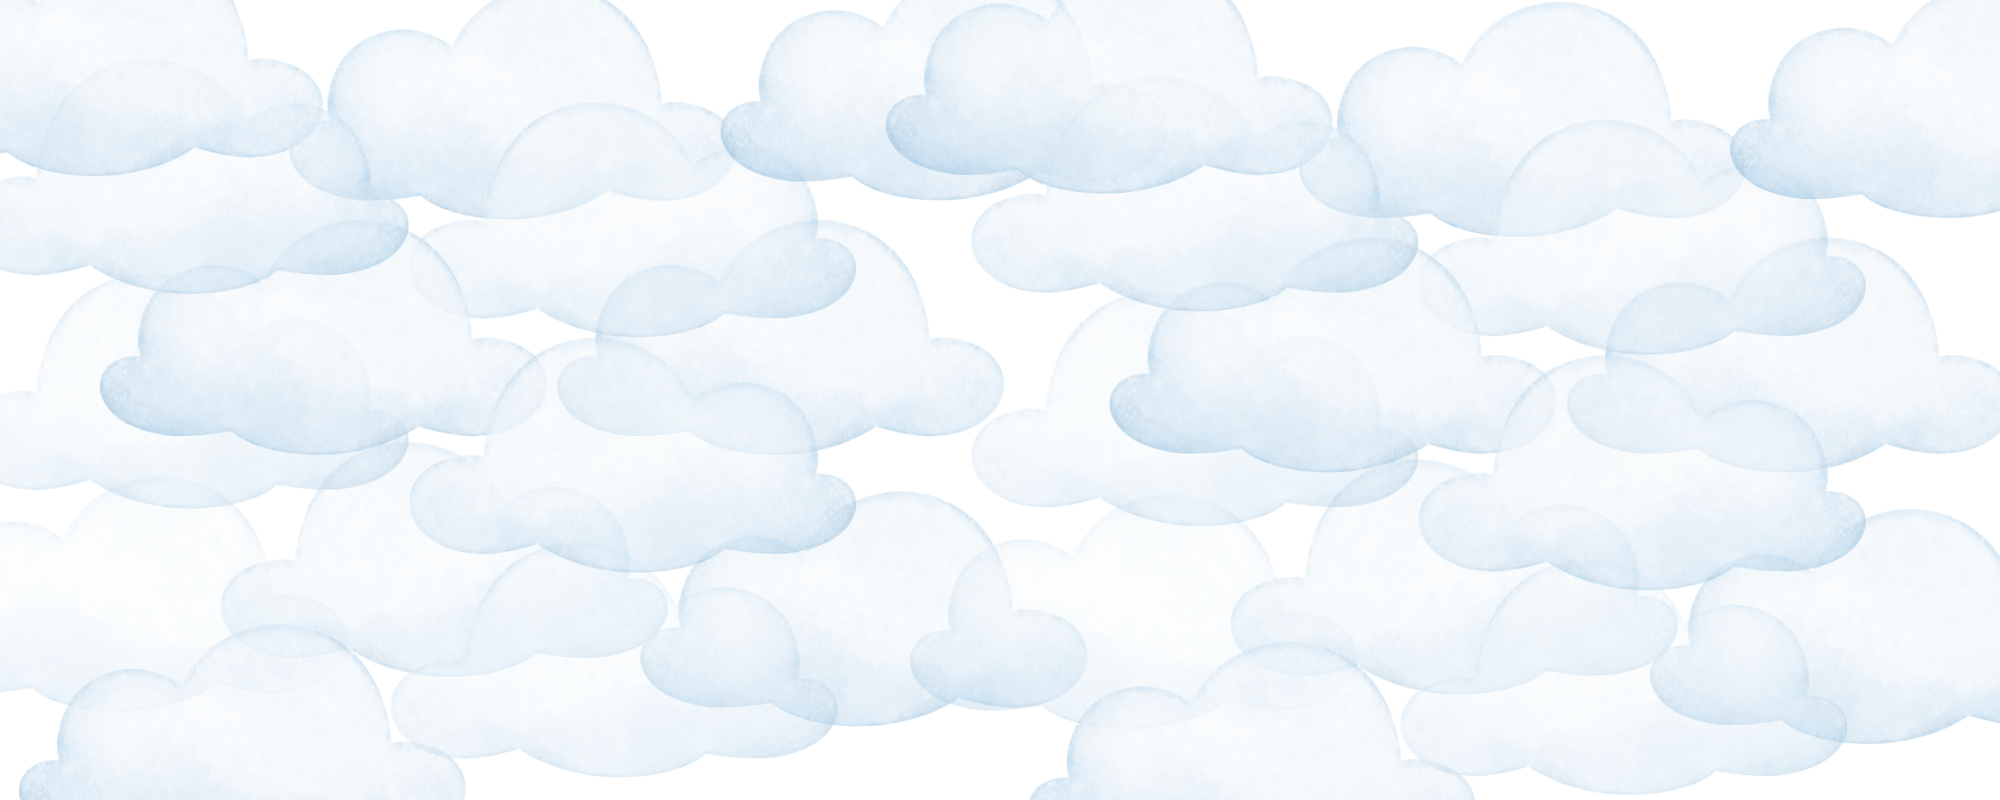
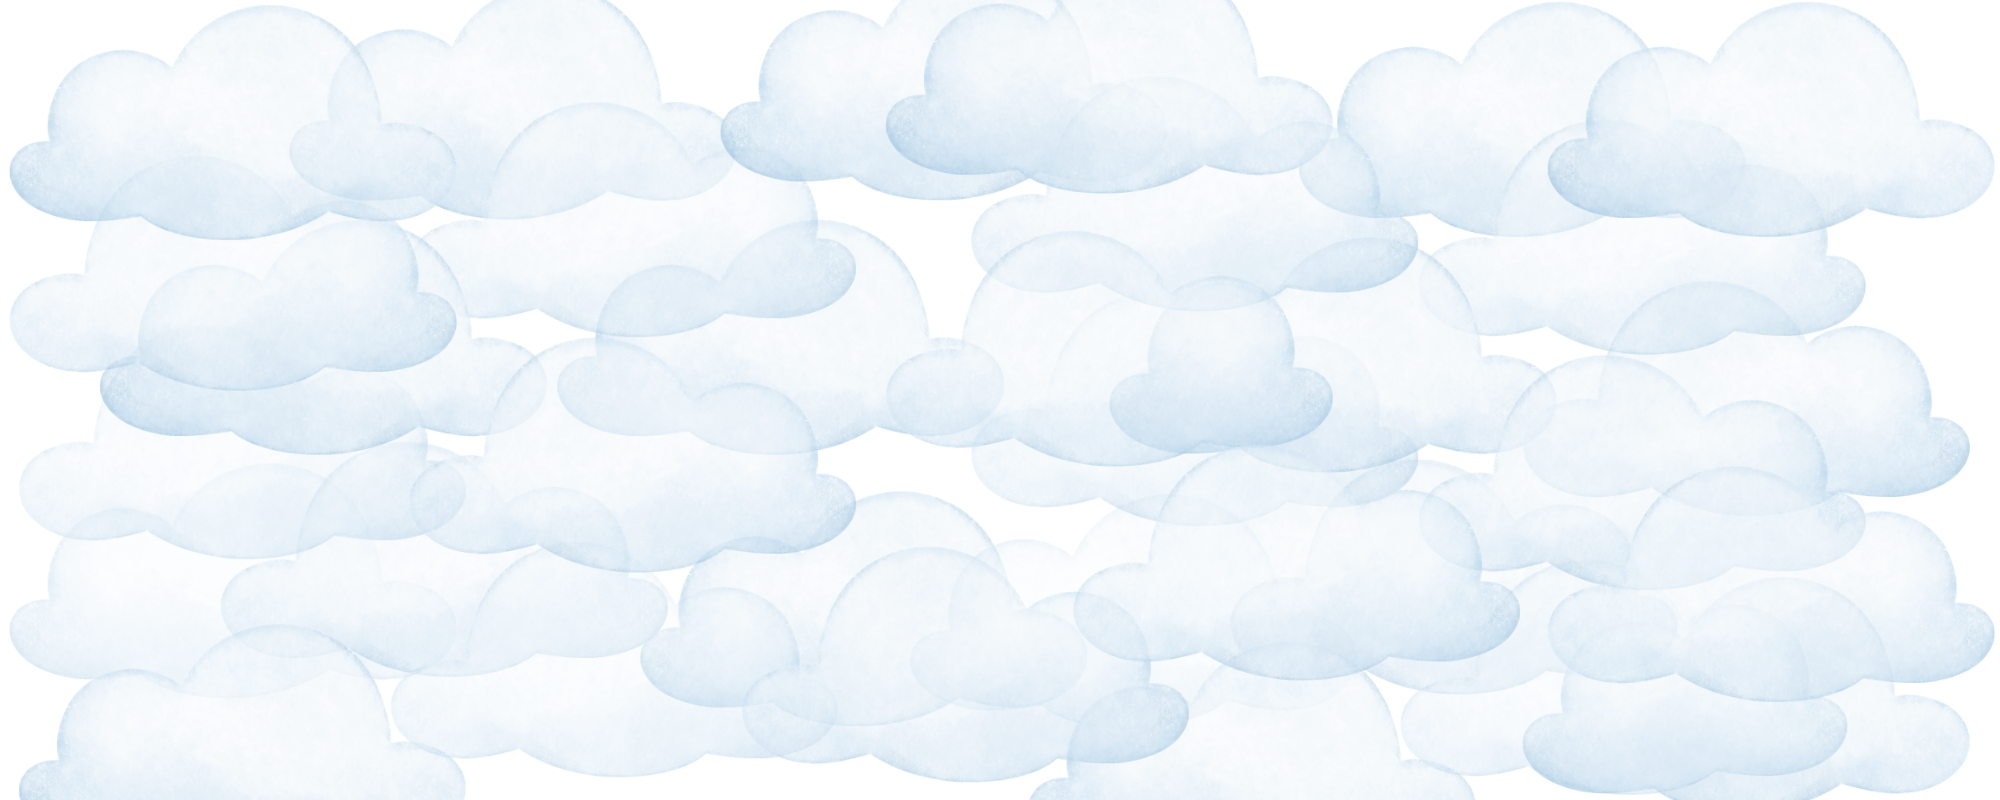
added twinkling stars, fixed clouds, edited some fonts

diff --git a/src/screens/Story.js b/src/screens/Story.js
@@ -3,7 +3,7 @@ import { useNavigate } from 'react-router-dom';
 import { generateWithTimestamps, clampSpeed } from '../services/elevenLabsService';
 import openBook from '../assets/open-book.png';
 import './Story.css';
-import nightSky from '../assets/night-sky.png';
+import nightSky from '../assets/night-sky.gif';
 import cloudsPng from '../assets/clouds.png';
 import blueScribble from '../assets/bluescribble.png';
 

diff --git a/src/screens/Loading.js b/src/screens/Loading.js
@@ -3,7 +3,7 @@ import { useNavigate, useLocation } from 'react-router-dom';
 import { generateStory } from '../services/geminiService';
 import storyService from '../services/storyService';
 import './Loading.css';
-import nightSky from '../assets/night-sky.png';
+import nightSky from '../assets/night-sky.gif';
 import cloudsPng from '../assets/clouds.png';
 
 const loadingMessages = [

diff --git a/src/screens/Story.css b/src/screens/Story.css
@@ -31,6 +31,7 @@
 
 .back-btn,
 .done-btn {
+  font-family: 'Patrick Hand', 'Comic Sans MS', cursive, sans-serif;
   background: rgba(255, 255, 255, 0.2);
   color: white;
   border: 2px solid white;
@@ -369,6 +370,7 @@
 }
 
 .speed-option {
+  font-family: 'Patrick Hand', 'Comic Sans MS', cursive, sans-serif;
   flex: 1;
   padding: 5px 14px;
   font-size: 1.2rem;

diff --git a/src/screens/Done.js b/src/screens/Done.js
@@ -1,7 +1,7 @@
 import React from 'react';
 import { useNavigate } from 'react-router-dom';
 import './Done.css';
-import nightSky from '../assets/night-sky.png';
+import nightSky from '../assets/night-sky.gif';
 import cloudsPng from '../assets/clouds.png';
 import starsImg from '../assets/stars.png';
 import blue1 from '../assets/blue-1.PNG';
